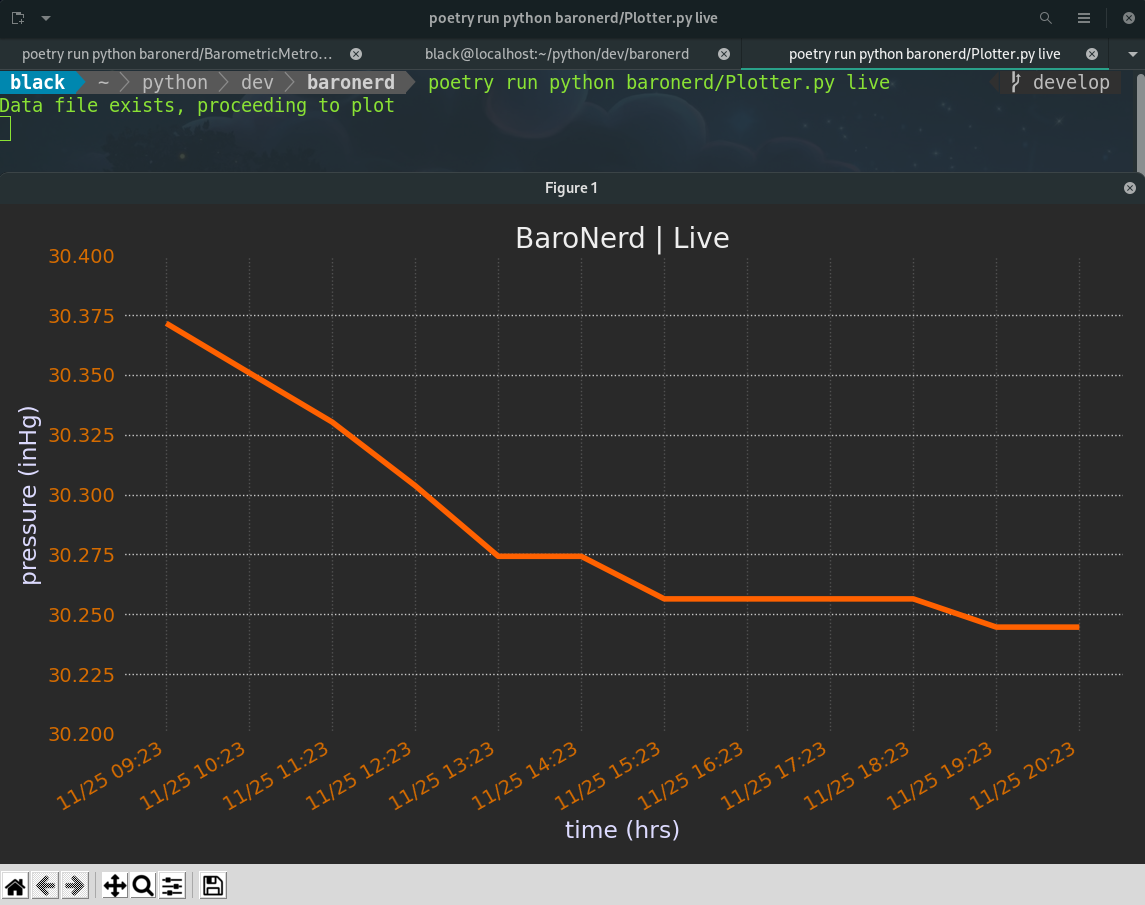
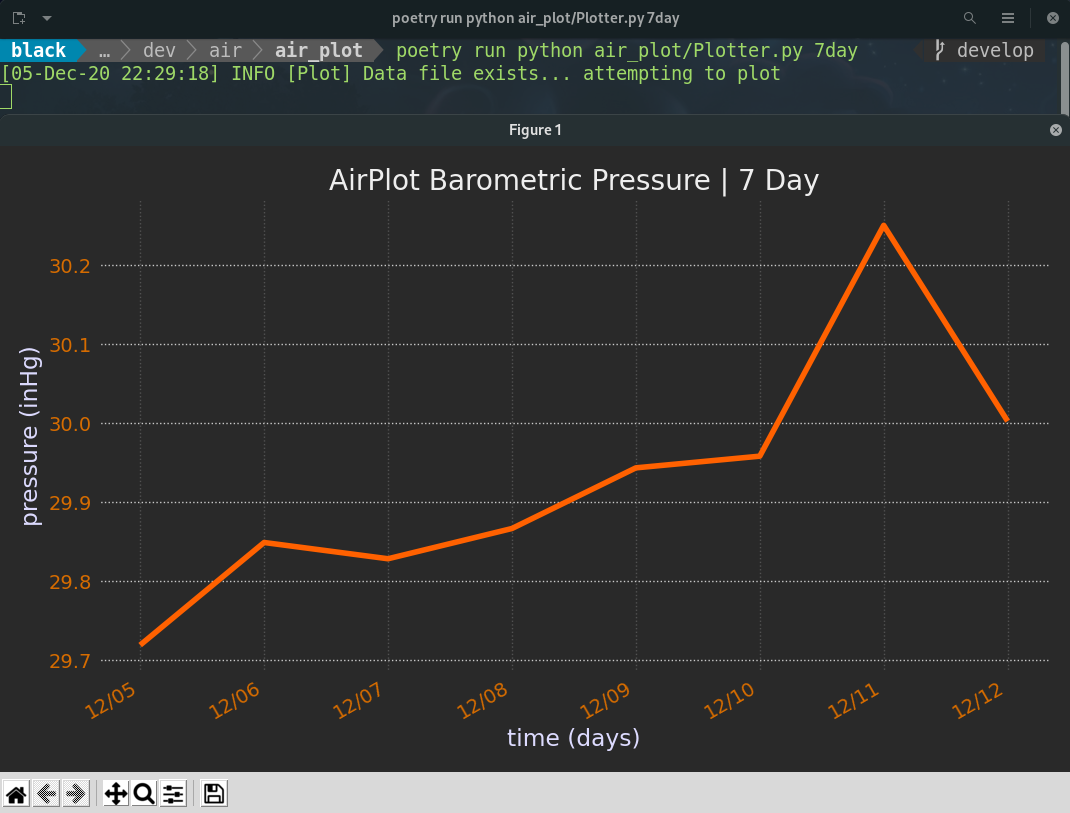
refactor(project_split): separate plotter and collector process
This project was the original data collector and plotter for project
'Baronerd' which was renamed to project 'Air' within this work.
Along with the rename, the new project was split up into
multiple git repositories in order to separate development and
running environment concerns. This project is only concerned
with the data plotting portion of 'Air', leaving collecting of
the data and other functionality to the other repos within
this project.  The removing of 'baronerd' terms and other small
changes to the documentation takes place here.

diff --git a/air_plot/Plotter.py b/air_plot/Plotter.py
@@ -1,9 +1,9 @@
-# Barometric time interval plotter
+# Air properties time interval plotter
 
 import sys
 import ntpath
 import os.path
-from bin.BaronerdSettings import File_Settings
+from bin.AirSettings import File_Settings
 from bin.Plot import Plot
 from bin.PlotSettings import Plotter_Settings
 
@@ -73,7 +73,7 @@ class Plotter:
             'data_col2': self.data_col2,
             'x_label': self.x_label,
             'y_label': self.y_label,
-            'table_title_interval': 'BaroNerd | {}'.format(self.table_title_interval)
+            'table_title_interval': 'AirPlot Barometric Pressure | {}'.format(self.table_title_interval)
         }
 
         new_plot = Plot(full_path_data_file, table_settings, plot_time_interval, graph_type)
@@ -81,5 +81,5 @@ class Plotter:
 
 
 if __name__ == '__main__':
-    barometric_plot = Plotter()
-    barometric_plot.run_plot()
+    air_plot = Plotter()
+    air_plot.run_plot()

diff --git a/tests/test_air_plot.py b/tests/test_air_plot.py
@@ -1,4 +1,4 @@
-from baronerd import __version__
+from air_plot import __version__
 
 
 def test_version():

diff --git a/README.rst b/README.rst
@@ -1,14 +1,12 @@
 =================
-Baronerd
+AirPlot
 =================
 
-A simple local barometric pressure measurement logger and plotter using the DarkSky API
+A simple local barometric pressure measurement plotter using data from air_collect
 
 .. image:: images/Screenshot2Plotter.png
     :scale: 50
 .. image:: images/ScreenshotPlotterDiff.png
-    :scale: 50
-.. image:: images/ScreenshotBarometricMetronome.png
     :scale: 50
 
 Installation
@@ -26,72 +24,36 @@ In order to run the program functions, see below.
 
 Introduction
 ------------
-This project functions for three purposes.
+This project functions for one purposes.
 
-1. To collect the barometric pressure of a location using the DarkSky API (BarometricMetronome.py).
-2. To generate differential information from the data collected (BarometricMetronome.py).
-3. To take the data collected and differential data and plot it on a basic Matplot GUI graph (Plotter.py).
+1. To take collected and differential barometric pressure data and plot it on a basic Matplotlib GUI graph (Plotter.py).
 
-The differential data in this project is supplied in order to gain insight into how quickly certain time intervals are
-changing in barometric pressure which could be a point of interest.
-
-BarometricMetronome.py
-~~~~~~~~~~~~~~~~~~~~~~
-BarometricMetronome.py is named aptly as it is the process in charge of running continuously, polling the DarkSky API
-for barometric pressure measurements. It takes the measurements collected from the API requests outputting them out to
-the terminal, and aggregating them in the data folder as collection of CSVs. This process creates data files of
-live barometric pressure readings, along with data files for the next 48hrs, and the next 7 days barometric pressures.
-It also saves the differential processing of those data files in the differentials folder within the data folder.
-Differentials are taken for the live, 48hr, and 7 day data feeds. BarometricMetronome.py requires that an ``.env`` file
-is available in the *same* directory it is running under. The format of the .env file should contain ``DARK_SKY_API_KEY``,
-``QUERY_API_INTERVAL``, ``NUM_OF_LIVE_READINGS``, and ``COORDINATES_LAT_LONG`` as defined environment values.
-
-| ``DARK_SKY_API_KEY`` : The API key of a registered DarkSky account (https://darksky.net/dev)
-| ``QUERY_API_INTERVAL`` : The amount of seconds to wait before querying the API, i.e. polling interval
-| ``COORDINATES_LAT_LONG`` : The location's geographic coordinate system latitude and longitude
-| ``NUM_OF_LIVE_READINGS`` : The max number of barometric values the live data file should hold at any given time. New values continue to be collected indefinitely as long as BarometricMetronome.py is run, but the oldest value is consistently truncated to stay within this predefined limit.
-
-An explained ``.env`` file format is shown below::
-
-    DARK_SKY_API_KEY=<your dark sky API key>
-    QUERY_API_INTERVAL=<number of seconds between API requests>
-    NUM_OF_LIVE_READINGS=<number of readings in the live csv file>
-    COORDINATES_LAT_LONG=<'lat, long' coordinates>
-
-A typical ``.env`` file may look like this::
-
-    DARK_SKY_API_KEY=<your dark sky API key>
-    QUERY_API_INTERVAL=3600
-    NUM_OF_LIVE_READINGS=168
-    COORDINATES_LAT_LONG='40.71427,-74.00597'
-
-To run the script once the environment (.env) file is created, from within the baronerd directory, simply type::
-
-    poetry python BarometricMetronome.py
+The differential data in this project is supplied in order to gain insight into how quickly values are  changing in
+certain air properties for certain time intervals, which could be a point of interest.
 
 Plotter.py
 ~~~~~~~~~~
-Plotter.py is a simple process that takes the CSV files produced by the BarometricMetronome.py script and plots them on
-a basic live update Matplot GUI graph.
+Plotter.py is a simple process that takes the CSV files produced by the ``air_collect`` project and plots them on
+a basic live update Matplotlib GUI graph.
 
-The plotter can be run, from within the baronerd directory, in the following ways depending on what time interval
+The plotter can be run, from within the air_plot directory, in the following ways depending on what time interval
 data you would like to plot::
 
-    poetry python Plotter.py live
-    poetry python Plotter.py 48hr
-    poetry python Plotter.py 7day
+    poetry run python air_plot/Plotter.py live
+    poetry run python air_plot/Plotter.py 48hr
+    poetry run python air_plot/Plotter.py 7day
 
-The commands above can take an additional 'diff' attribute which will plot the differential data of that time interval::
+The commands above can take an additional 'diff' flag which will plot the differential data of that time interval::
 
-    poetry python Plotter.py live diff
-    poetry python Plotter.py 48hr diff
-    poetry python Plotter.py 7day diff
+    poetry run python air_plot/Plotter.py live diff
+    poetry run python air_plot/Plotter.py 48hr diff
+    poetry run python air_plot/Plotter.py 7day diff
 
 Finally, the live data has support for the 2nd order differential data::
 
-    poetry python Plotter.py live diff2
+    poetry run python air_plot/Plotter.py live diff2
 
 Commit Conventions
 ----------------------
-Git commit conventions follows AngularJS commit message conventions explained in detail on their GitHub
-(https://gist.github.com/stephenparish/9941e89d80e2bc58a153)
+Git commit conventions follows Conventional Commits message conventions explained in detail on their website
+(https://www.conventionalcommits.org)
